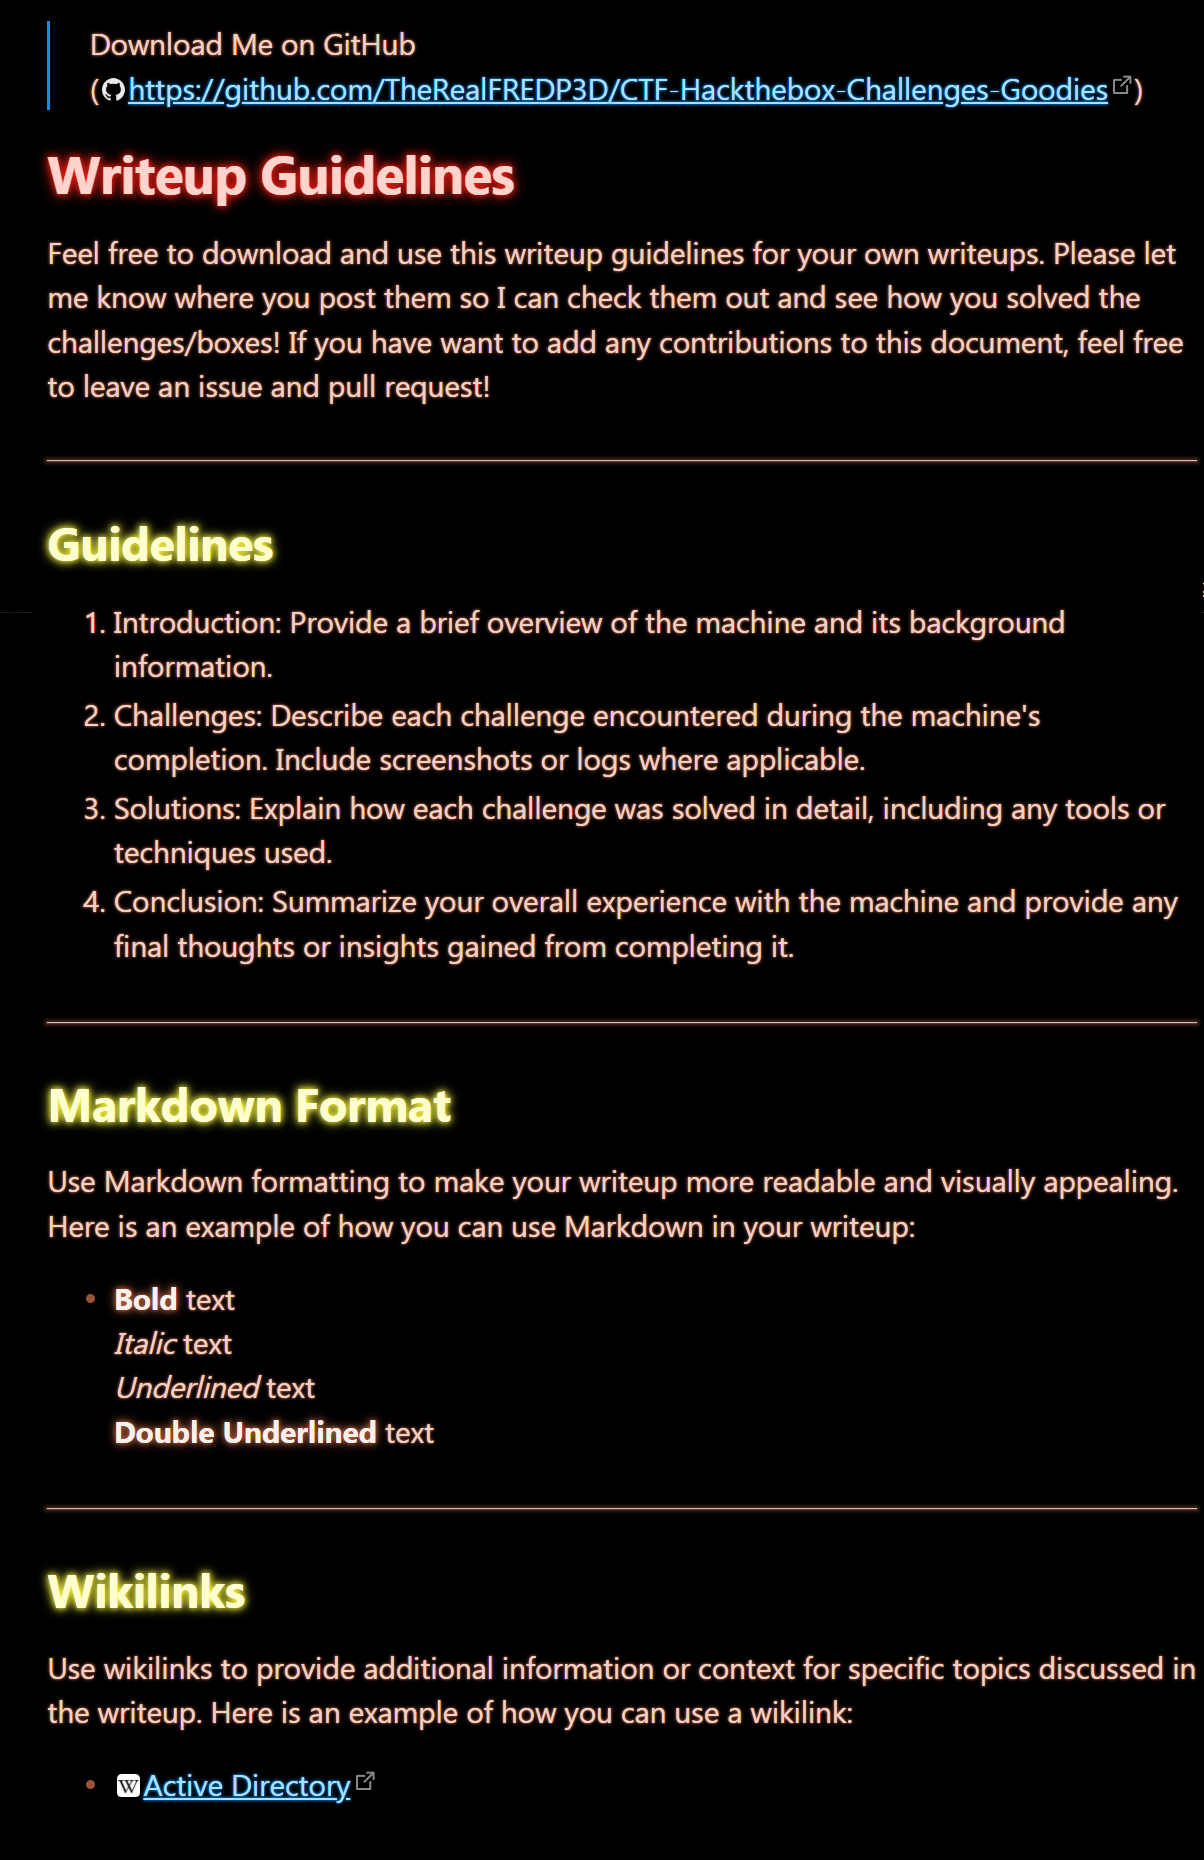
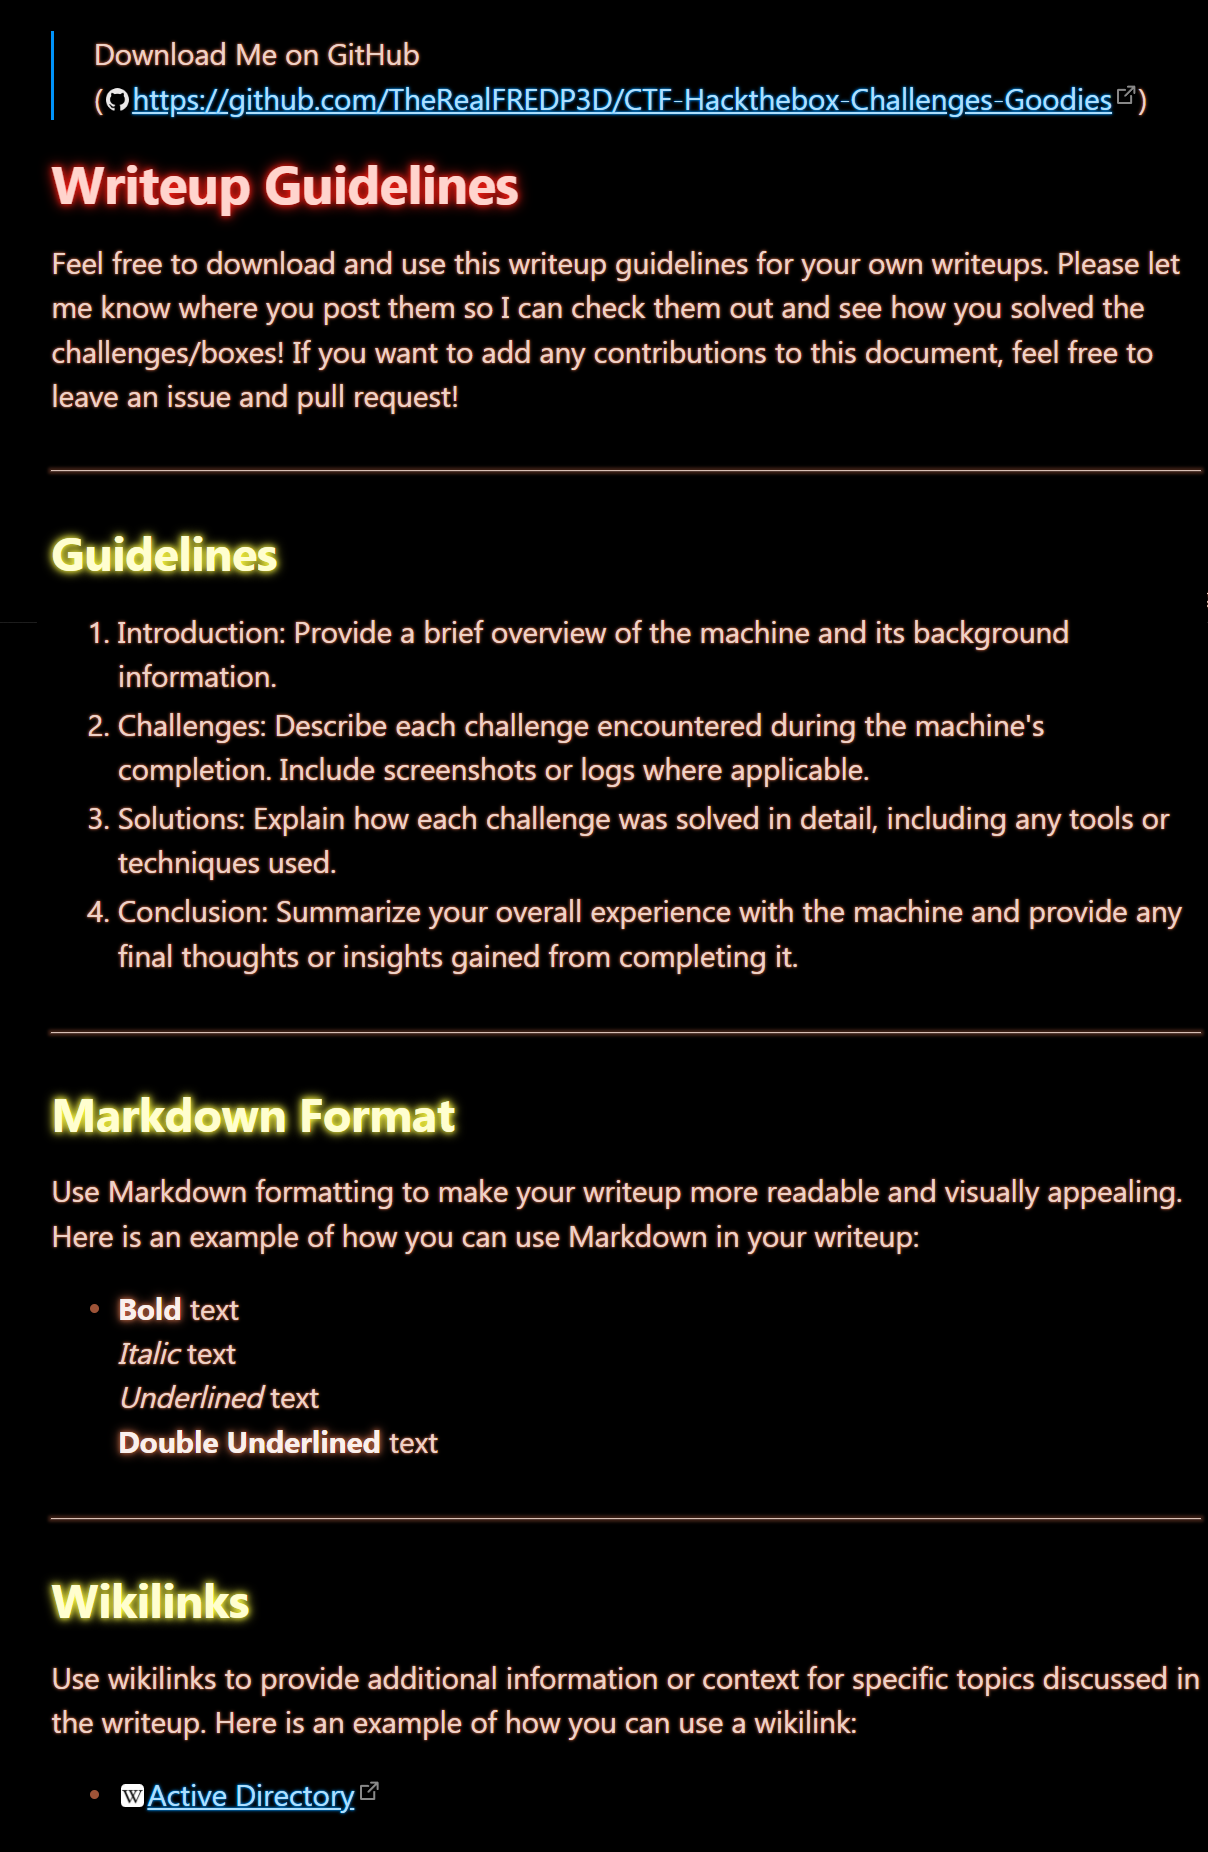
Mod Writeup-Guidelines

Changed region(s): [[0.0307, 0.0, 1.0, 0.9849]]

diff --git a/Writeup-Guidelines.md b/Writeup-Guidelines.md
@@ -1,14 +1,17 @@
-## Download Me on GitHub
-https[://]www.github.com/TheRealFREDP3D/
+---
+title: Writeup Guidelines
+---
 
+> Download Me on GitHub
+> (https://github.com/TheRealFREDP3D/CTF-Hackthebox-Challenges-Goodies)
 
-# Writeup Template
+# Writeup Guidelines
 
-Feel free to download and use this writeup template for Hack the Box machines for your own writeups. Please let me know where you post them so I can check them out and see how you completed the machines! If you have any contributions to this document, feel free to leave an issue and pull request!
+Feel free to download and use this writeup guidelines for your own writeups. Please let me know where you post them so I can check them out and see how you solved the challenges/boxes! If you want to add any contributions to this document, feel free to leave an issue and pull request!
 
 ---
 
-### Writeup Format
+## Guidelines
 
 1. Introduction: Provide a brief overview of the machine and its background information.
 2. Challenges: Describe each challenge encountered during the machine's completion. Include screenshots or logs where applicable.
@@ -17,18 +20,19 @@ Feel free to download and use this writeup template for Hack the Box machines fo
 
 ---
 
-### Markdown Format
+## Markdown Format
 
 Use Markdown formatting to make your writeup more readable and visually appealing. Here is an example of how you can use Markdown in your writeup:
+
 - **Bold** text
 *Italic* text
-_Underlined_ text
-__Double Underlined__ text
+*Underlined* text
+**Double Underlined** text
 
 ---
 
-### Wikilinks
+## Wikilinks
 
 Use wikilinks to provide additional information or context for specific topics discussed in the writeup. Here is an example of how you can use a wikilink:
-* [Active Directory](https://en.wikipedia.org/wiki/Active_Directory)
 
+* [Active Directory](https://en.wikipedia.org/wiki/Active_Directory)
